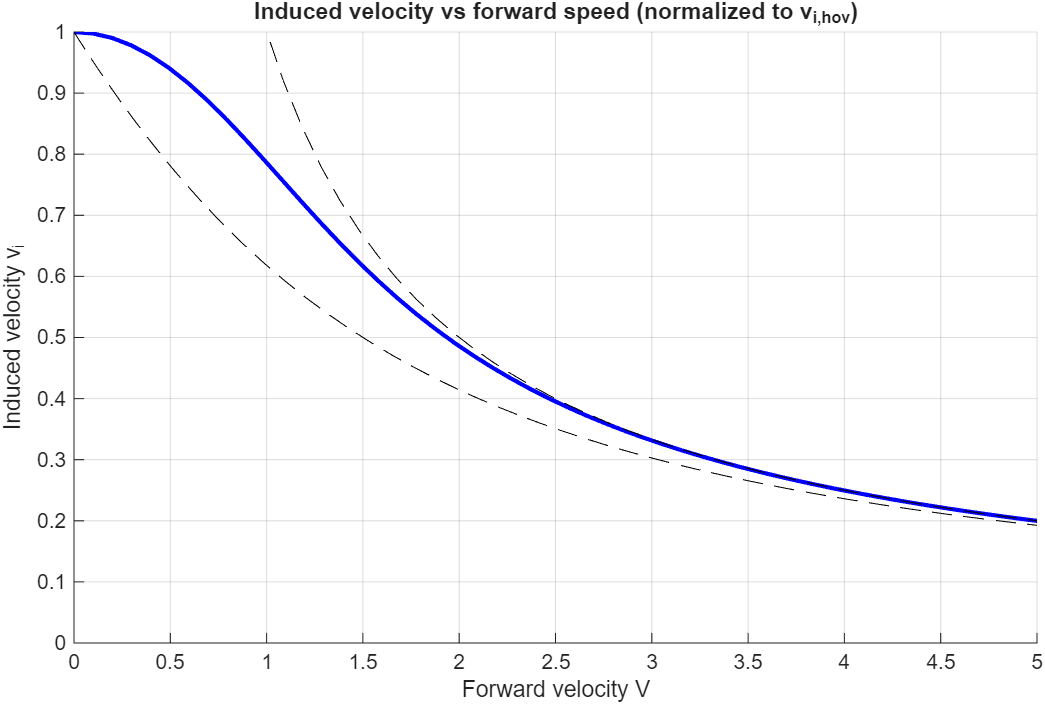
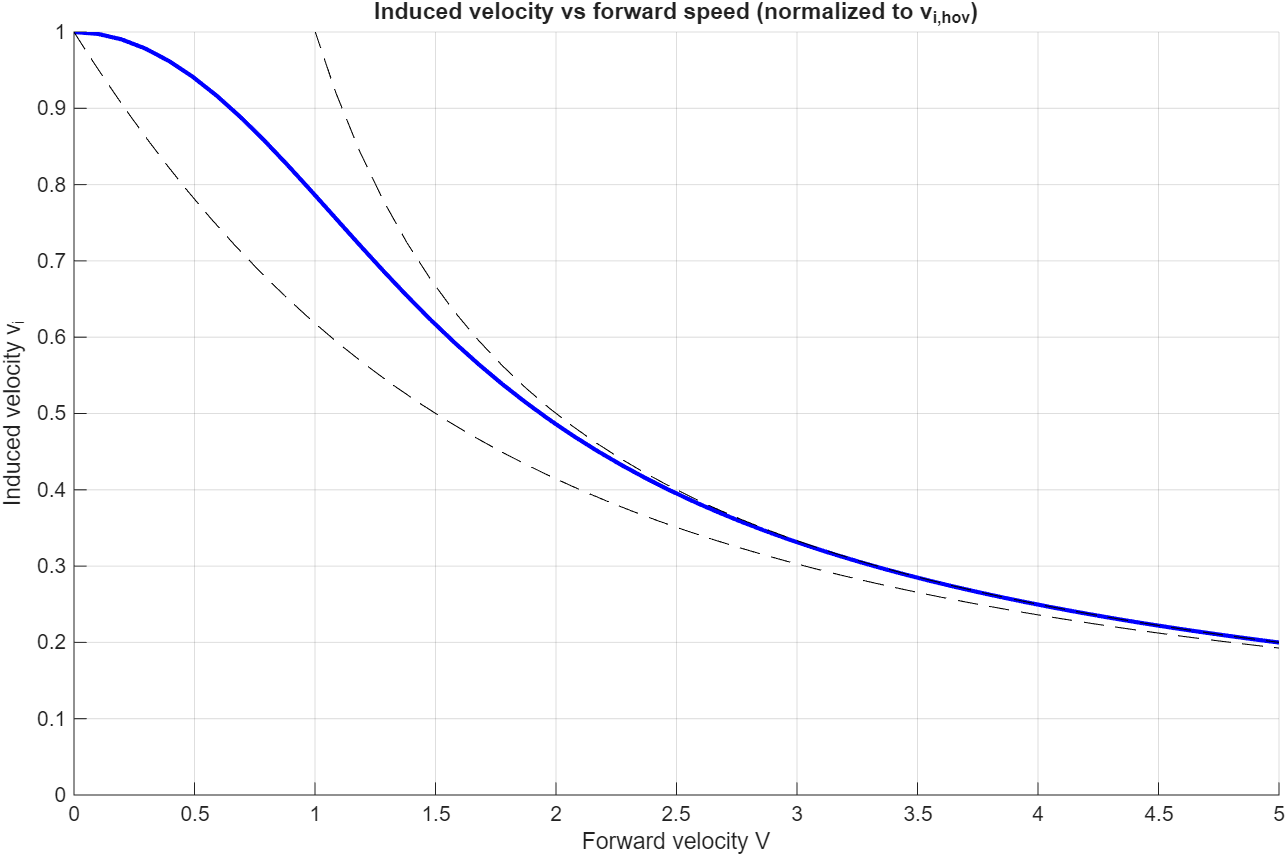
added all the power stuff

diff --git a/main.m b/main.m
@@ -2,7 +2,10 @@ clear; close all; clc
 
 PLOT_DIR = "plots/";
 if ~exist(PLOT_DIR, 'dir'), mkdir(PLOT_DIR); end
-set(0, 'DefaultFigureVisible', 'off');
+%set(0, 'DefaultFigureVisible', 'off');
+
+naca0012_polar = readmatrix("NACA0012Polar.txt");
+getCD = @(alpha) interp1(naca0012_polar(:,1), naca0012_polar(:,4), alpha, 'linear');
 
 [heli, atm] = GetParams;
 
@@ -40,11 +43,13 @@ grid on; ylim([0 1]); xlim([0 5]);
 exportgraphics(gcf, PLOT_DIR + "vi_forward_flight.png");
 
 %% Power calculation Hover
+perf.hov.alpha = 6*heli.W ./ (heli.N .* atm.rho .* heli.Omega.^2 .* heli.R.^3 .* heli.c .* 2*pi *(pi/180));
+
 perf.hov.P_ideal = heli.W * perf.hov.vi;
 perf.hov.P_ACT = perf.hov.P_ideal / heli.FM;
 
 perf.hov.P_i  = heli.k * heli.W * perf.hov.vi;
-perf.hov.P_p  = (heli.sigma * heli.CDp / 8) * atm.rho * (heli.Omega * heli.R)^3 * pi * heli.R^2;
+perf.hov.P_p  = (heli.sigma * getCD(perf.hov.alpha) / 8) * atm.rho * (heli.Omega * heli.R)^3 * pi * heli.R^2;
 perf.hov.P_BEM = perf.hov.P_i + perf.hov.P_p;
 
 fprintf("Ideal Power required to hover: %.3fkW\n", perf.hov.P_ideal.*1e-3)
@@ -55,19 +60,50 @@ fprintf("BEM Power required to hover: %.3fkW\n", perf.hov.P_BEM.*1e-3)
 vi_interp = @(V) perf.hov.vi .* interp1(perf.Vbar_range, perf.ff.vi, V ./ perf.hov.vi, "linear", "extrap");
 getMu = @(V) V ./ (heli.Omega .* heli.R);
 
-% Profile drag power
-getPp = @(V) perf.hov.P_BEM*(1+getMu(V).^2);
-
-% Rotor drag power
-getRDP = @(V) heli.sigma*heli.CDp/4 * atm.rho*(heli.Omega*heli.R)^3*pi*heli.R*getMu(V)^2;
+% Profile drag + rotor drag power (Bennett approximation, eq 14)
+getPp = @(V) perf.hov.P_p*(1+4.65.*getMu(V).^2);
 
 % Induced power 
 getIP = @(V) heli.k*heli.m*9.81*vi_interp(V);
 
 % Parasite drag power
-getPpara = @(V) () .* 0.5 * atm.rho * V^3;
+getPpara = @(V) (heli.Afront .* heli.fuse_CD) .* 0.5 * atm.rho * V.^3;
 
 % Tail rotor induced drag
-perf.Torque_main = perf.P_drag
-perf.T_tail = 
-perf.P_tail_induced = 
+T_tr = @(V) (getPp(V) + getIP(V)) ./ heli.Omega ./ heli.tailarm;
+perf.hov.tr.vi = sqrt(T_tr(0)./(2.*atm.rho*pi*heli.Rtail^2));
+perf.hov.tr.alpha = 6*T_tr(0) ./ (heli.Ntail .* atm.rho .* heli.OmegaTail.^2 .* heli.Rtail.^3 .* heli.ctail .* 2*pi *(pi/180));
+P_i_tr = @(V) 1.1.*heli.k_tr .* T_tr(V) .* perf.hov.tr.vi;
+P_p_tr = @(V) (heli.sigma_tr .* getCD(perf.hov.tr.alpha) ./ 8) * atm.rho * (heli.OmegaTail * heli.Rtail)^3 * pi * heli.Rtail^2;
+getPBEMtr = @(V) P_i_tr(V) + P_p_tr(V);
+
+% Total Power
+P_tot = @(V) getPp(V) + getIP(V) + getPpara(V) + getPBEMtr(V);
+
+V_ext = heli.maxV + 40;
+figure; hold on;
+% Solid lines within Vmax
+fplot(@(V) P_tot(V)*1e-3,    [0 heli.maxV], 'k-',  'LineWidth', 2);
+fplot(@(V) getPp(V)*1e-3,    [0 heli.maxV], 'b-');
+fplot(@(V) getIP(V)*1e-3,    [0 heli.maxV], 'r-');
+fplot(@(V) getPpara(V)*1e-3, [0 heli.maxV], 'g-');
+fplot(@(V) getPBEMtr(V)*1e-3,[0 heli.maxV], 'm-');
+% Dashed lines beyond Vmax
+fplot(@(V) P_tot(V)*1e-3,    [heli.maxV V_ext], 'k--', 'LineWidth', 2);
+fplot(@(V) getPp(V)*1e-3,    [heli.maxV V_ext], 'b--');
+fplot(@(V) getIP(V)*1e-3,    [heli.maxV V_ext], 'r--');
+fplot(@(V) getPpara(V)*1e-3, [heli.maxV V_ext], 'g--');
+fplot(@(V) getPBEMtr(V)*1e-3,[heli.maxV V_ext], 'm--');
+% Vertical line at Vmax
+xline(heli.maxV, 'k:', 'LineWidth', 1.5, 'Label', sprintf('V_{max}=%.1f m/s', heli.maxV));
+% Minimum power point
+[V_opt, P_min] = fminbnd(@(V) P_tot(V), 1, heli.maxV);
+plot(V_opt, P_min*1e-3, 'ko', 'MarkerFaceColor', 'r', 'MarkerSize', 8);
+text(V_opt, P_min*1e-3+20, sprintf('V=%.1f m/s\nP=%.1f kW', V_opt, P_min*1e-3), 'VerticalAlignment', 'bottom', 'HorizontalAlignment', 'center');
+hold off;
+legend('P_{total}', 'P_{profile}', 'P_{induced}', 'P_{parasite}', 'P_{tail rotor}', '', '', '', '', '', '', 'P_{min}', 'Location', 'northeast');
+xlabel('Forward velocity V (m/s)');
+ylabel('Power (kW)');
+title('Power vs forward velocity');
+grid on;
+exportgraphics(gcf, PLOT_DIR + "P_forward_flight.png");

diff --git a/GetParams.m b/GetParams.m
@@ -8,6 +8,7 @@ heli.N = 2;
 heli.RPS = 5.4;
 heli.maxV = 56.67;
 heli.c = 0.53;
+heli.ctail = 0.213;
 heli.range = 511; %km
 heli.hoverceiling = 1220;
 heli.Ntail = 2;
@@ -19,8 +20,12 @@ heli.FM = 0.75;
 heli.k = 1.15;
 heli.CDp = 0.00322; % from airfoilTools 
 heli.Afront = 4.46;
+heli.fuse_CD = 0.2;
+heli.k_tr = 1.4;
+heli.OmegaTail = 174.13;
 
-heli.sigma = heli.N*heli.c/(pi*heli.R);
+heli.sigma = heli.Ntail*heli.ctail/(pi*heli.Rtail);
+heli.sigma_tr = heli.N*heli.c/(pi*heli.R);
 heli.W = heli.m*9.81;
 heli.Omega = heli.RPS * 2*pi;
 heli.A = pi * heli.R^2;
